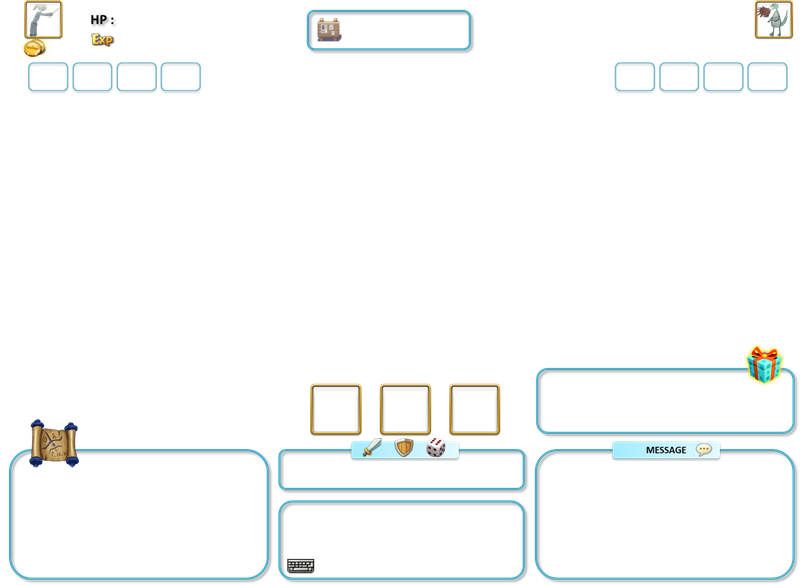
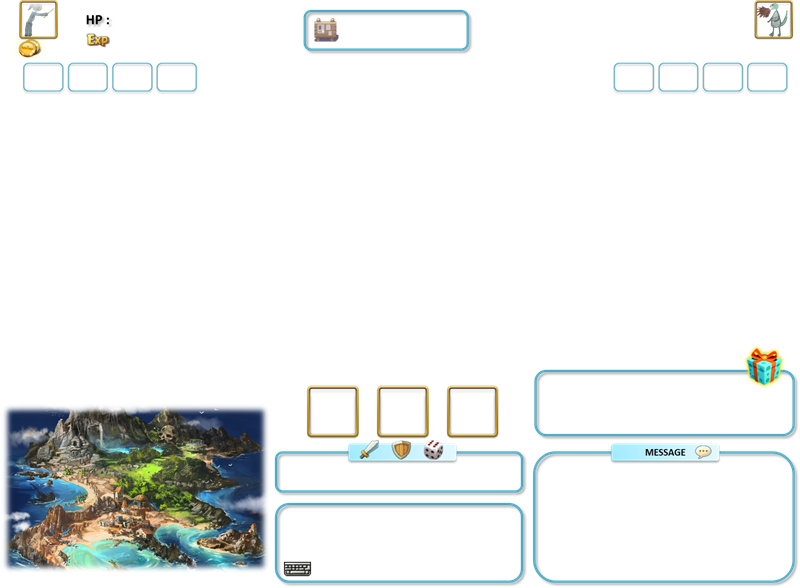
Add files via upload

diff --git a/materials/front_layer/__init__.py b/materials/front_layer/__init__.py
@@ -6,6 +6,7 @@
 """The front layer definition file
 """
 import os
+import zipfile
 from data import const
 import pyglet
 import cocos
@@ -63,6 +64,39 @@ labels['enemy_hp_change_label'] = cocos.text.Label('',
         bold=True,color=const.DEFAULT_COLOR, x=500, y=220)
 
 sprites = {}
+_file_name = 'number-'
+with zipfile.ZipFile(const.MONSTER_ZIP_FILE) as monster_file:
+    for _ in range(6):
+        monster_file_data = monster_file.open(_file_name + str(_ + 1) + '.png')
+        _number_file_image =  pyglet.image.load('', file=monster_file_data) 
+        sprites['number' + str(_+ 1)] = cocos.sprite.Sprite(_number_file_image, position =(10,10))
+sprites['number1'].scale = 0.35
+sprites['number2'].scale = 0.35
+sprites['number3'].scale = 0.35
+sprites['number4'].scale = 0.35
+sprites['number5'].scale = 0.35
+sprites['number6'].scale = 0.35
+
+sprites['number1'].position = 160, 100
+sprites['number2'].position = 50, 150
+sprites['number3'].position = 25, 75
+sprites['number4'].position = 100, 60
+sprites['number5'].position = 140, 160
+sprites['number6'].position = 200, 160
+
+sprites['number1'].visible = False
+sprites['number2'].visible = False
+sprites['number3'].visible = False
+sprites['number4'].visible = False
+sprites['number5'].visible = False
+sprites['number6'].visible = False
+
+
+_anime = pyglet.image.load_animation(const.MAP_SELECT_IMG_FILE)
+_bin = pyglet.image.atlas.TextureBin()
+_anime.add_to_texture_bin(_bin)
+sprites['map_select'] = cocos.sprite.Sprite(_anime, position=(30,30))
+sprites['map_select'].scale = 0.35
 
 #bg_music = materials.Audio(Const.BG_MUSIC_FILE)
 
@@ -72,6 +106,9 @@ class Front_Layer(Layer):
         if hasattr(materials.front_layer, 'labels'):
             for _, _label in materials.front_layer.labels.items():
                 self.add(_label)
+        if hasattr(materials.front_layer, 'sprites'):
+            for _, _sprite in materials.front_layer.sprites.items():
+                self.add(_sprite)
         
         self.image = materials.images['front_img']
     def draw(self):

diff --git a/data/const.py b/data/const.py
@@ -7,10 +7,18 @@ import os
 import string
 import copy
 import zipfile
+import pyglet
+
+def image_from_file(_file):
+    with zipfile.ZipFile(MONSTER_ZIP_FILE) as monster_file:
+        monster_file_data = monster_file.open(_file)
+        return  pyglet.image.load('', file=monster_file_data) 
+    
+
 # The globel variables
 GAME_TITLE = 'MY GAME'
 PLAYER_NAME = 'crix'
-VERSION = 'beta 0.91'
+VERSION = 'beta 0.93'
 ZONE_NAME = ['平静的森林', '漆黑的地牢', '远方的孤岛', '精灵的国度', '奇妙的幻境', '地狱的试炼']
 MAX_LEN = 20
 DEFAULT_COLOR = (0, 0, 0, 255)
@@ -54,8 +62,8 @@ STRIKE_IMG_FILE = './pic/strike.gif'
 CRITICAL_STRIKE_IMG_FILE = './pic/critical_strike.gif'
 SUPER_STRIKE_IMG_FILE = './pic/super_strike.gif'
 EXPLODE_IMG_FILE = './pic/explode.gif'
-PLAYER_IMG_FILE = './pic/player_s.png'
-ENEMY_IMG_FILE = './pic/monster-30-1.png'
+PLAYER_IMG_FILE = 'player_s.png'
+ENEMY_IMG_FILE = 'monster-30-1.png'
 TITLE_MUSIC_FILE = './music/title.ogg'
 BG_MUSIC_FILE = './music/main.ogg'
 HIGHSCORE_MUSIC_FILE = './music/highscore.ogg'
@@ -75,6 +83,7 @@ DEFEND_IMG_FILE = './pic/defend.png'
 LUCK_IMG_FILE = './pic/luck.png'
 SAVE_LOAD_BG_IMG_FILE = './pic/save_load_layer_bg.png'
 SELECT_BAR_IMG_FILE = './pic/select_bar.png'
+MAP_SELECT_IMG_FILE = './pic/map_select.gif'
 # empty save slot ( a cross char)
 EMPTY_IMG_FILE = './pic/empty.png'
 MESSAGE_BOX_IMG_FILE = './pic/message_box.png'
@@ -84,7 +93,7 @@ LOOT_CONTROL_IMG_FILE = './pic/loot_control.png'
 CORPSE_CONTROL_IMG_FILE = './pic/corpse_control.png'
 MAIN_CONTROL_IMG_FILE = './pic/main_control.png'
 CAMP_CONTROL_IMG_FILE = './pic/camp_control.png'
-# monster zip file
+# monsters' & other's image file
 MONSTER_ZIP_FILE = './pic/monster.zip'
 DEFAULT_MONSTER_IMG_FILE = 'monster-30-0.png'
 

diff --git a/tof.py b/tof.py
@@ -332,7 +332,9 @@ class Game(object):
         with zipfile.ZipFile(const.MONSTER_ZIP_FILE) as monster_file:
             monster_file_data = monster_file.open(const.ZONE_BACK_IMG_FILES[no])
         my_main.image =  pyglet.image.load('', file=monster_file_data) 
-        
+        for _ in range(self.max_stage + 1):
+            materials.front_layer.sprites['number' + str(_+1)].visible = True
+        materials.front_layer.sprites['map_select'].position = materials.front_layer.sprites['number' + str(no + 1)].position[0], materials.front_layer.sprites['number' + str(no + 1)].position[1] - 20 
 
 if __name__ == '__main__':
     msg = []

diff --git a/materials/main_scr/__init__.py b/materials/main_scr/__init__.py
@@ -22,8 +22,8 @@ import random
 #images = {'player_img':player_image}
 images = {}
 
-player_image = pyglet.image.load(os.path.abspath(const.PLAYER_IMG_FILE)) 
-enemy_image = pyglet.image.load(os.path.abspath(const.ENEMY_IMG_FILE)) 
+player_image = const.image_from_file(const.PLAYER_IMG_FILE) 
+enemy_image = const.image_from_file(const.ENEMY_IMG_FILE) 
 icon_select_image = pyglet.image.load(os.path.abspath(const.ICON_SELECT_IMG_FILE)) 
 item_box_image = pyglet.image.load(os.path.abspath(const.ITEM_BOX_IMG_FILE)) 
 attack_style_image = pyglet.image.ImageGrid(pyglet.image.load('./pic/attack_style.png'), 5, 2)

diff --git a/materials/save_load_layer/__init__.py b/materials/save_load_layer/__init__.py
@@ -169,7 +169,7 @@ class Save_Load_Layer(Layer):
                         #print('the player is dead')
                 else:
                     # start a new game
-                    self.game.player = player.gen_player(1)
+                    self.game.player = player.gen_player(23)
                     self.game.player.save_slot =  self.slot_selected
                     self.game.player.show_player()
                     self.game.player.zone = 0
